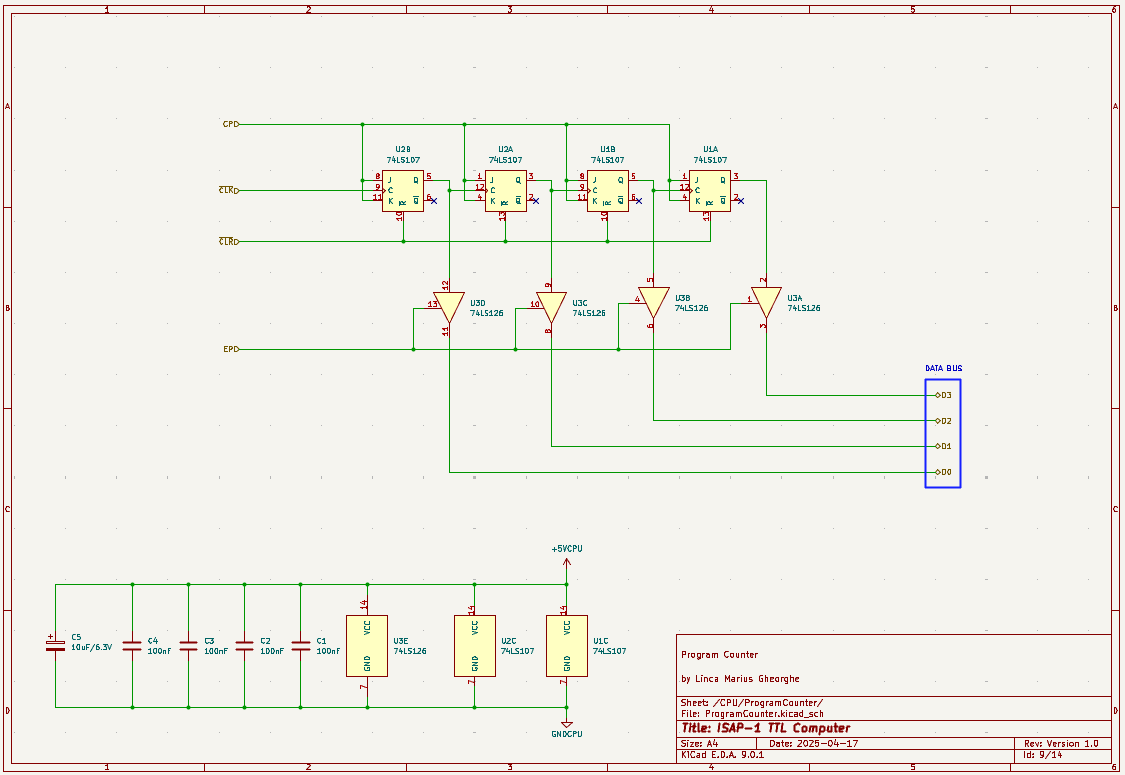
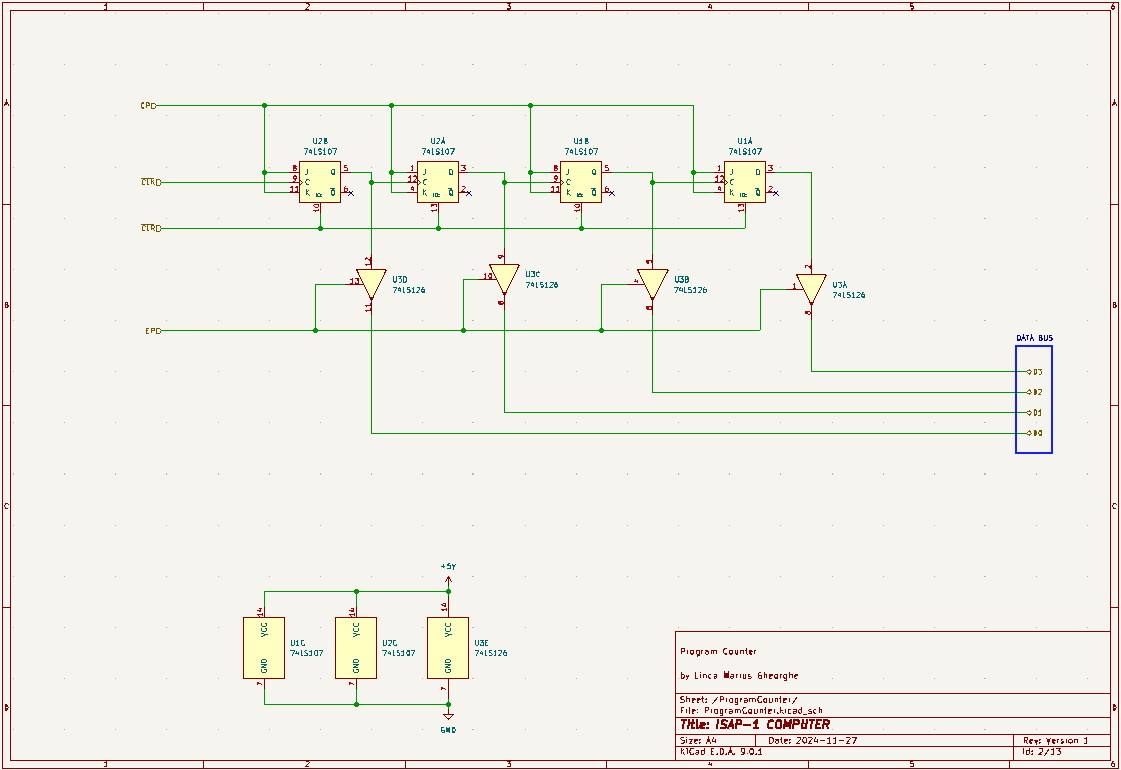
modified:   Pictures/Figure5.png

diff --git a/README.md b/README.md
@@ -54,26 +54,24 @@ First I will implement the Central Processing Unit which has the following schem
 
 All functional blocks can be seen in the diagram in Figure 3.
 
-In addition, we have a connector marked J1M1 for connection to the Back Plane through which the supply voltage is provided.
-
-The connector marked J2M1 allows connection to the Base Plane and provides connections to the three system buses.
-
-I want to improve the ISAP-1 computer gradually by adding new instructions. This will lead to modifying the Control Block. In order not to modify the entire CPU module, I decided to implement the Control Block as a Daughter Board that attaches to the CPU module.
-
-For this purpose, we added the connectors marked J3F1 and J4F1 which are used to connect the Control Block to the CPU module.
+In addition, we have a connector added by me marked J1 through which the supply voltage can be provided if the Power Supply is made on a separate PCB.
 
 ### Program Counter Schematic
 In the original schematic, the authors used 4 Flip-Flops connected in such a way that they form a Binary Counter. For implementation, two 74LS107 were used for this purpose.
 
 Counting is done when the CP control signal is active and the falling edge of the clock signal appears.
 
+This action occurs for any instruction during [ microstep T2 ](https://github.com/LincaMarius/ISAP-1_Instruction_Set/blob/main/Pictures/Figure3.png).
+
 The Program Counter has its output connected to the Bus, therefore it must be Tri-State. A 74LS126 chip is used for this purpose
+
+The output is active only when the EP control signal is high.
+
+This action occurs for any instruction during [ microstep T1 ](https://github.com/LincaMarius/ISAP-1_Instruction_Set/blob/main/Pictures/Figure3.png).
 
 The Schematic does has no changes from the original one.
 
-The original schematic has no decoupling capacitors for the chips. For the computer's operating speed of 1kHz this may not matter. But I added a decoupling capacitor for each chip and a filter capacitor for each block.
-
-So I added decoupling capacitors with a value of 100nF for each integrated circuit used and a 10uF filter capacitor.
+The original schematic has no decoupling capacitors for the chips. For the computer's operating speed of 1kHz this may not matter.
 
 ![ Figure 5 ](/Pictures/Figure5.png)
 
